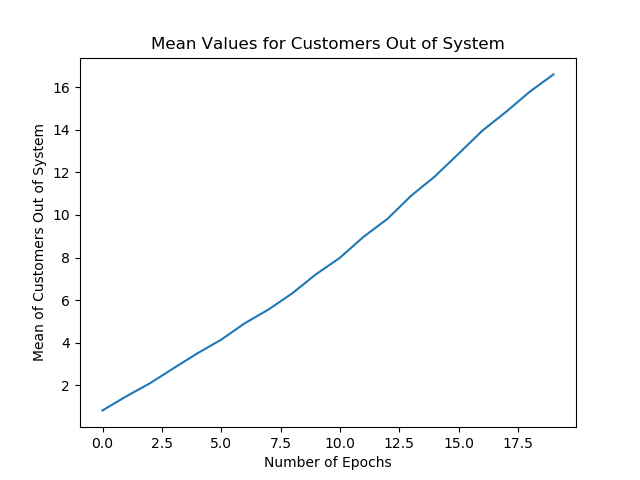
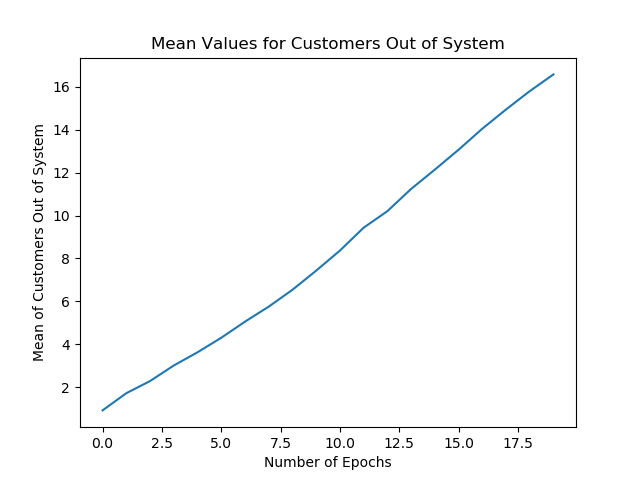
Changing mean to show all three types of lines

diff --git a/analysis_utils.py b/analysis_utils.py
@@ -38,14 +38,79 @@ from fullday_model import Fullday
 # ----------------------------- Mean ---------------------------
 
 
-def mean_values(number_of_epochs_for_simulation, model_name="equal",
-                number_of_av_simulations=200, number_of_people=100,
-                configCashiers=10, configSelfCheck=10, show=False):
+def plot_all_mean_values(number_of_epochs_for_simulation, number_of_av_simulations=200,
+                         number_of_people=100, configCashiers=10, configSelfCheck=10):
+    """ Preform a number of simulations and get the average values over the
+            course of a day.
+
+            This will be preformed for the specified type of line.
+
+            Precondition:
+            - number_of_epochs_for_simulation: number of epochs each simulation is going to
+            be ran for
+            - number_of_av_simulations: Number of simulations that are going to be ran to
+            calculate the average. Default = 200
+            - sensitivity_range: Range for the sensitivity test. Default = 10
+            - number_of_people: number of people to enter the system. Default = 100
+            - configCashiers: Number of cashiers inside the tests configuration.
+                Default = 10
+            - configSelfCheck: Number of self checkouts inside the tests configuration.
+                Default = 10
+
+            Postcondition:
+            - A number png images stored inside analysis_images/means that will show
+                the final average results of an average of a set number of tests for
+                each of the lines
+    """
+    print("Gathering equal line averages...")
+    plot_mean_values(number_of_epochs_for_simulation, "equal",
+                     number_of_av_simulations, number_of_people,
+                     configCashiers, configSelfCheck)
+
+    print("Gathering cashier line averages")
+    plot_mean_values(number_of_epochs_for_simulation, "cashier",
+                     number_of_av_simulations, number_of_people,
+                     configCashiers, configSelfCheck)
+
+    print("Gathering customer line averages...")
+    plot_mean_values(number_of_epochs_for_simulation, "customer",
+                     number_of_av_simulations, number_of_people,
+                     configCashiers, configSelfCheck)
+
+def plot_mean_values(number_of_epochs_for_simulation, model_name="equal",
+                     number_of_av_simulations=200, number_of_people=100,
+                     configCashiers=10, configSelfCheck=10):
+    """ Preform a number of simulations and get the average values over the
+        course of a day.
+
+        This will be preformed for the specified type of line.
+
+        Precondition:
+        - number_of_epochs_for_simulation: number of epochs each simulation is going to
+        be ran for
+        - model_name: Type of line to use. Default = "equal"
+        - number_of_av_simulations: Number of simulations that are going to be ran to
+        calculate the average. Default = 200
+        - sensitivity_range: Range for the sensitivity test. Default = 10
+        - number_of_people: number of people to enter the system. Default = 100
+        - configCashiers: Number of cashiers inside the tests configuration.
+            Default = 10
+        - configSelfCheck: Number of self checkouts inside the tests configuration.
+            Default = 10
+
+        Postcondition:
+        - 4 png images stored inside analysis_images/configuration that will show
+            the final average results of an average of a set number of tests for
+            a certain configuration.
+    """
+    # Create a group of lists to store the data
     mean_cust_left = np.zeros(number_of_epochs_for_simulation)
     mean_cust_waiting = np.zeros(number_of_epochs_for_simulation)
     mean_cust_queue = np.zeros(number_of_epochs_for_simulation)
     mean_items_checked = np.zeros(number_of_epochs_for_simulation)
     mean_maintenance = np.zeros(number_of_epochs_for_simulation)
+
+    # Preform a number of simulations
     for j in range(number_of_av_simulations):
         self_check_model = model(model_name, number_of_people, configCashiers, configSelfCheck,
                                  cashier_IPM_p_influence=0.1,
@@ -58,31 +123,21 @@ def mean_values(number_of_epochs_for_simulation, model_name="equal",
             = self_check_model.execute_simulation(number_of_epochs_for_simulation,
                                                   show=False, showAnim=False)
 
+        # Add the values over the day to the lists
         mean_cust_left += np.array(customers_left)
         mean_cust_waiting += np.array(customers_in_line)
         mean_cust_queue += np.array(customers_in_queue)
         mean_items_checked += np.array(items_checked)
         mean_maintenance += np.array(maintenance_costs)
 
+    # Get the averages of the day
     mean_cust_left /= number_of_av_simulations
     mean_cust_waiting /= number_of_av_simulations
     mean_cust_queue /= number_of_av_simulations
     mean_items_checked /= number_of_av_simulations
     mean_maintenance /= number_of_av_simulations
 
-    if show:
-        plot_means(model_name, number_of_epochs_for_simulation, \
-               mean_cust_left, mean_cust_waiting, mean_cust_queue, \
-               mean_items_checked, mean_maintenance)
-
-    return model_name, number_of_epochs_for_simulation, \
-           mean_cust_left, mean_cust_waiting, mean_cust_queue, \
-           mean_items_checked, mean_maintenance
-
-
-def plot_means(model_name, number_of_epochs_for_simulation,
-               mean_cust_left, mean_cust_waiting, mean_cust_queue,
-               mean_items_checked, mean_maintenance):
+    # Plot trackable data
     plt.figure(1)
     plt.clf()
     plt.title("Mean Values for Customers Out of System")

diff --git a/main.py b/main.py
@@ -135,7 +135,7 @@ def execute_all_sensitvity_tests():
 average_simulation_numb = 200
 number_of_epochs_for_simulation = 20
 
-configuration(number_of_epochs_for_simulation)
+plot_all_mean_values(number_of_epochs_for_simulation)
 
 # sensitivity_chitchatness_analysis_for_all_lines(number_of_epochs_for_simulation, number_of_av_simulations = average_simulation_numb, number_of_people = 20)
 # sensitivity_chitchatness_analysis_for_all_lines(number_of_epochs_for_simulation, number_of_av_simulations = average_simulation_numb, number_of_people = 40)
